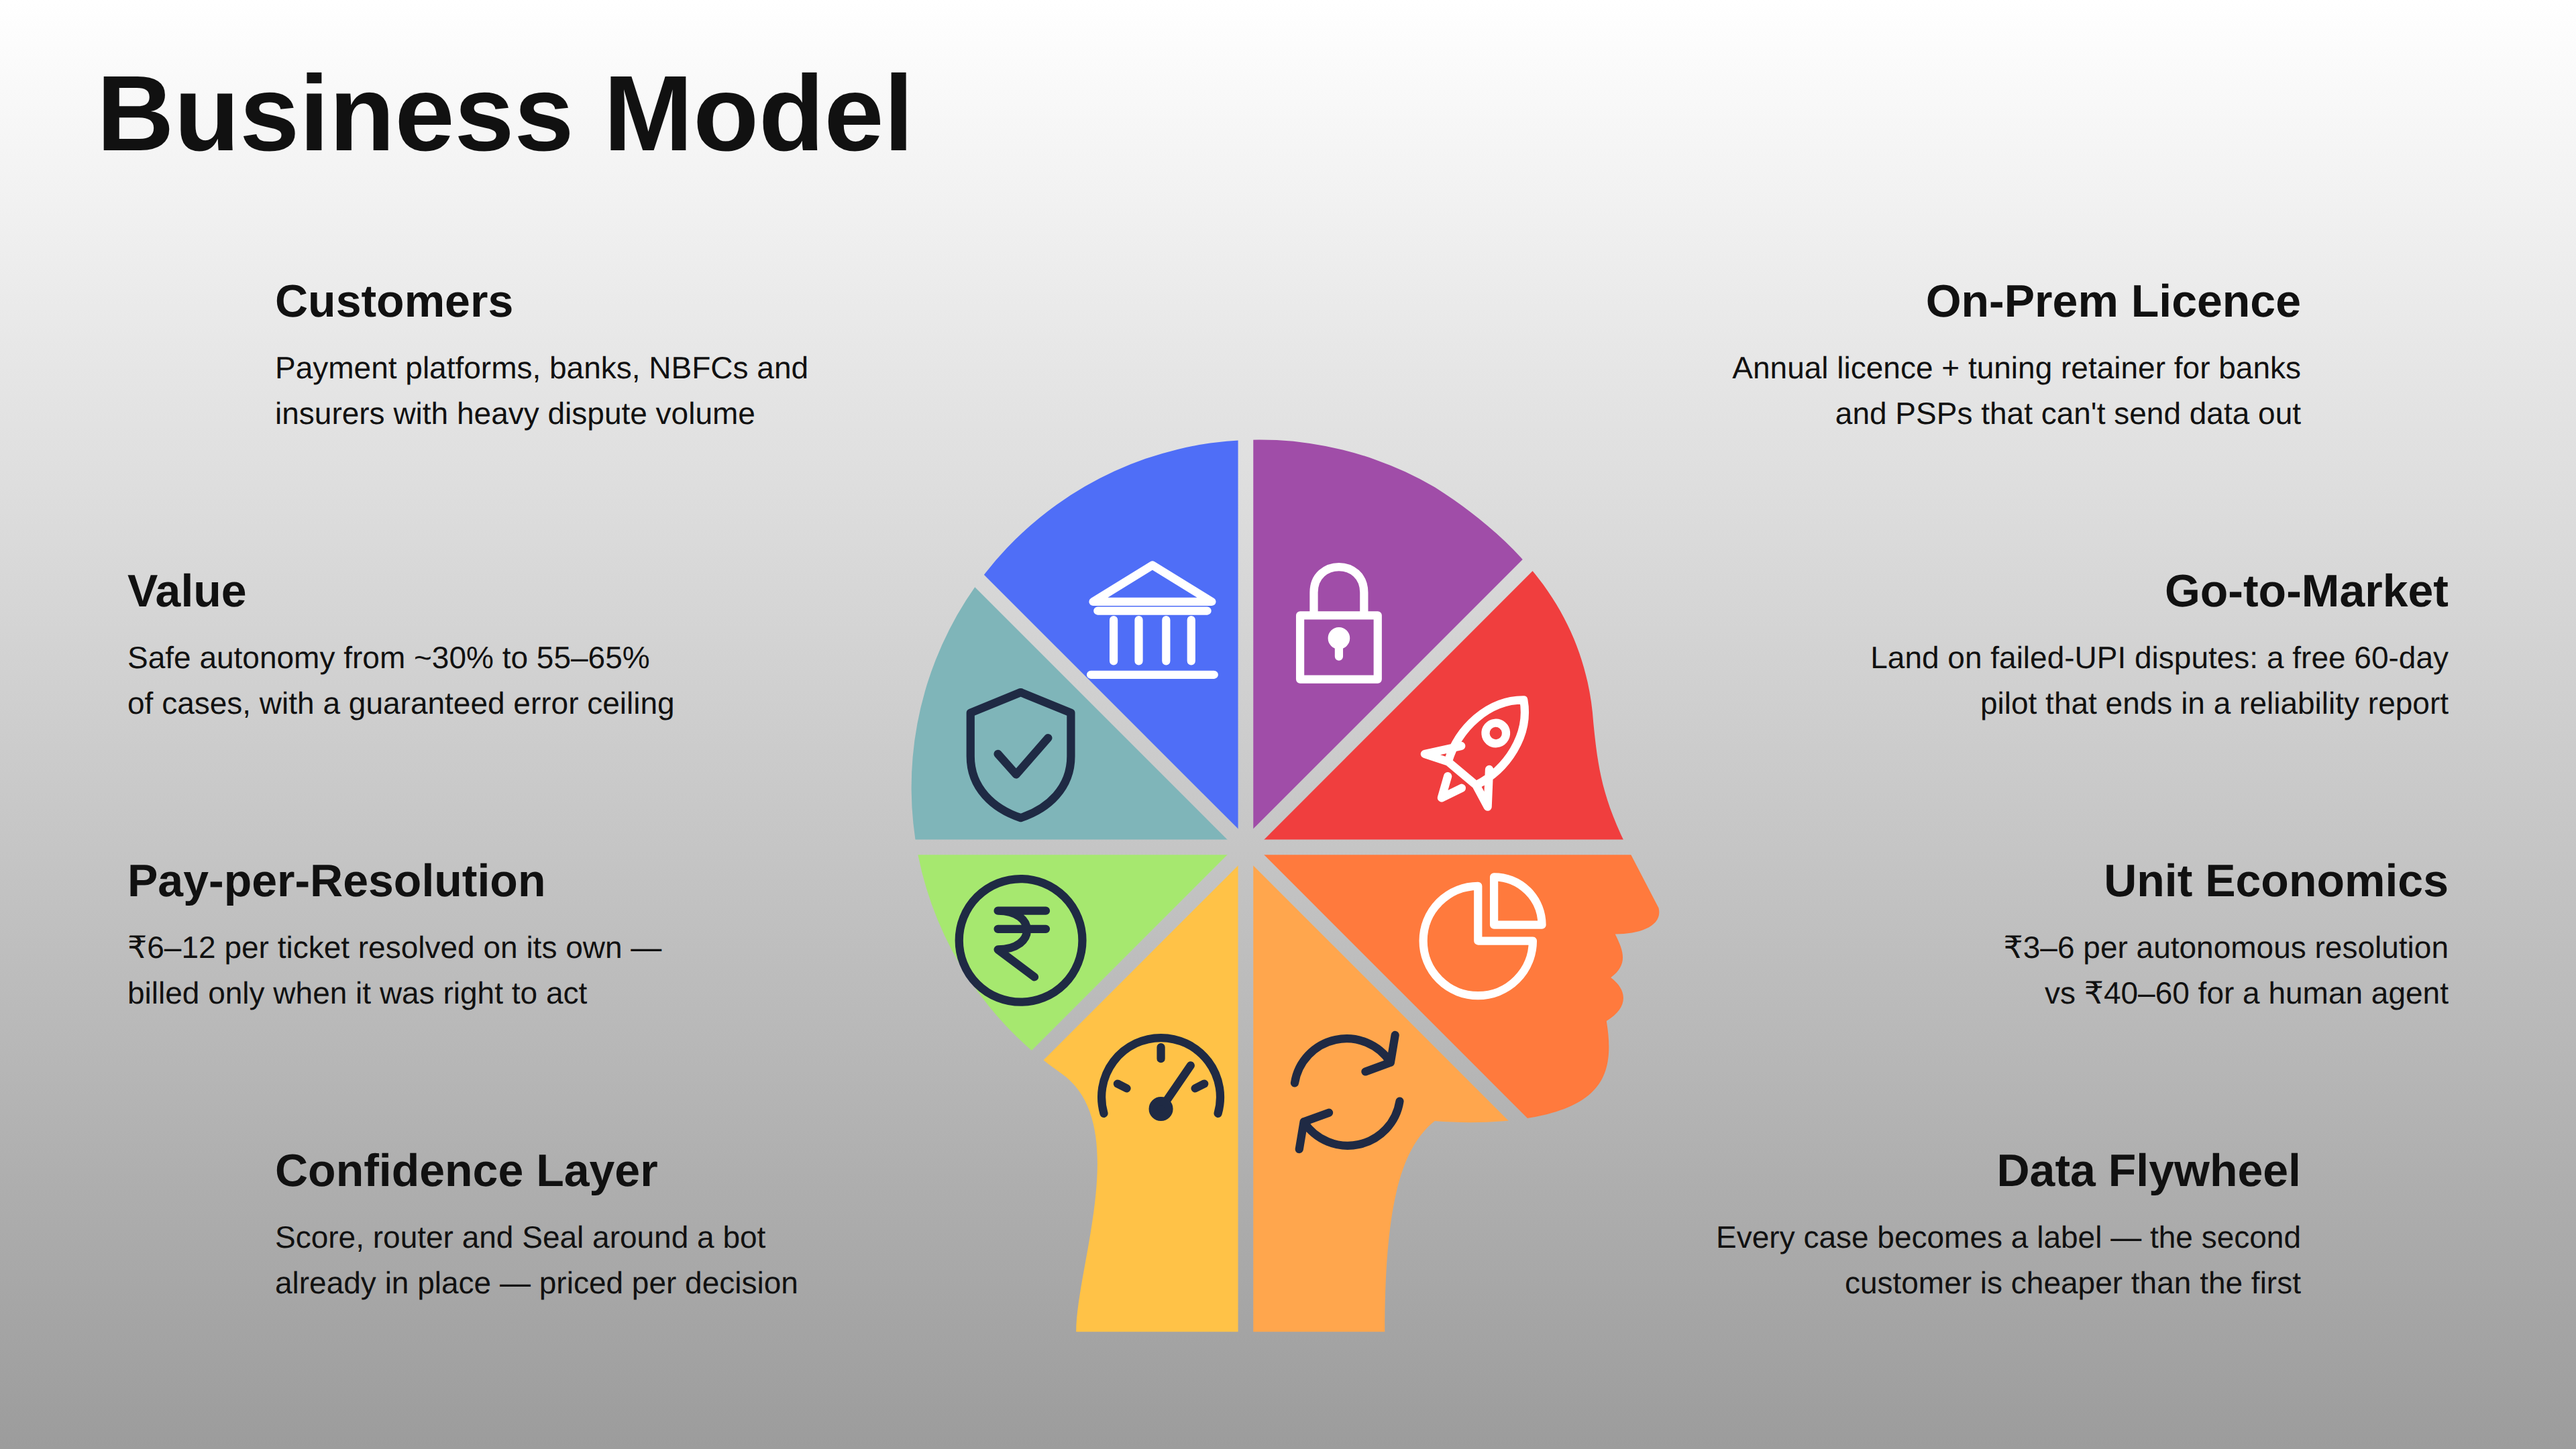
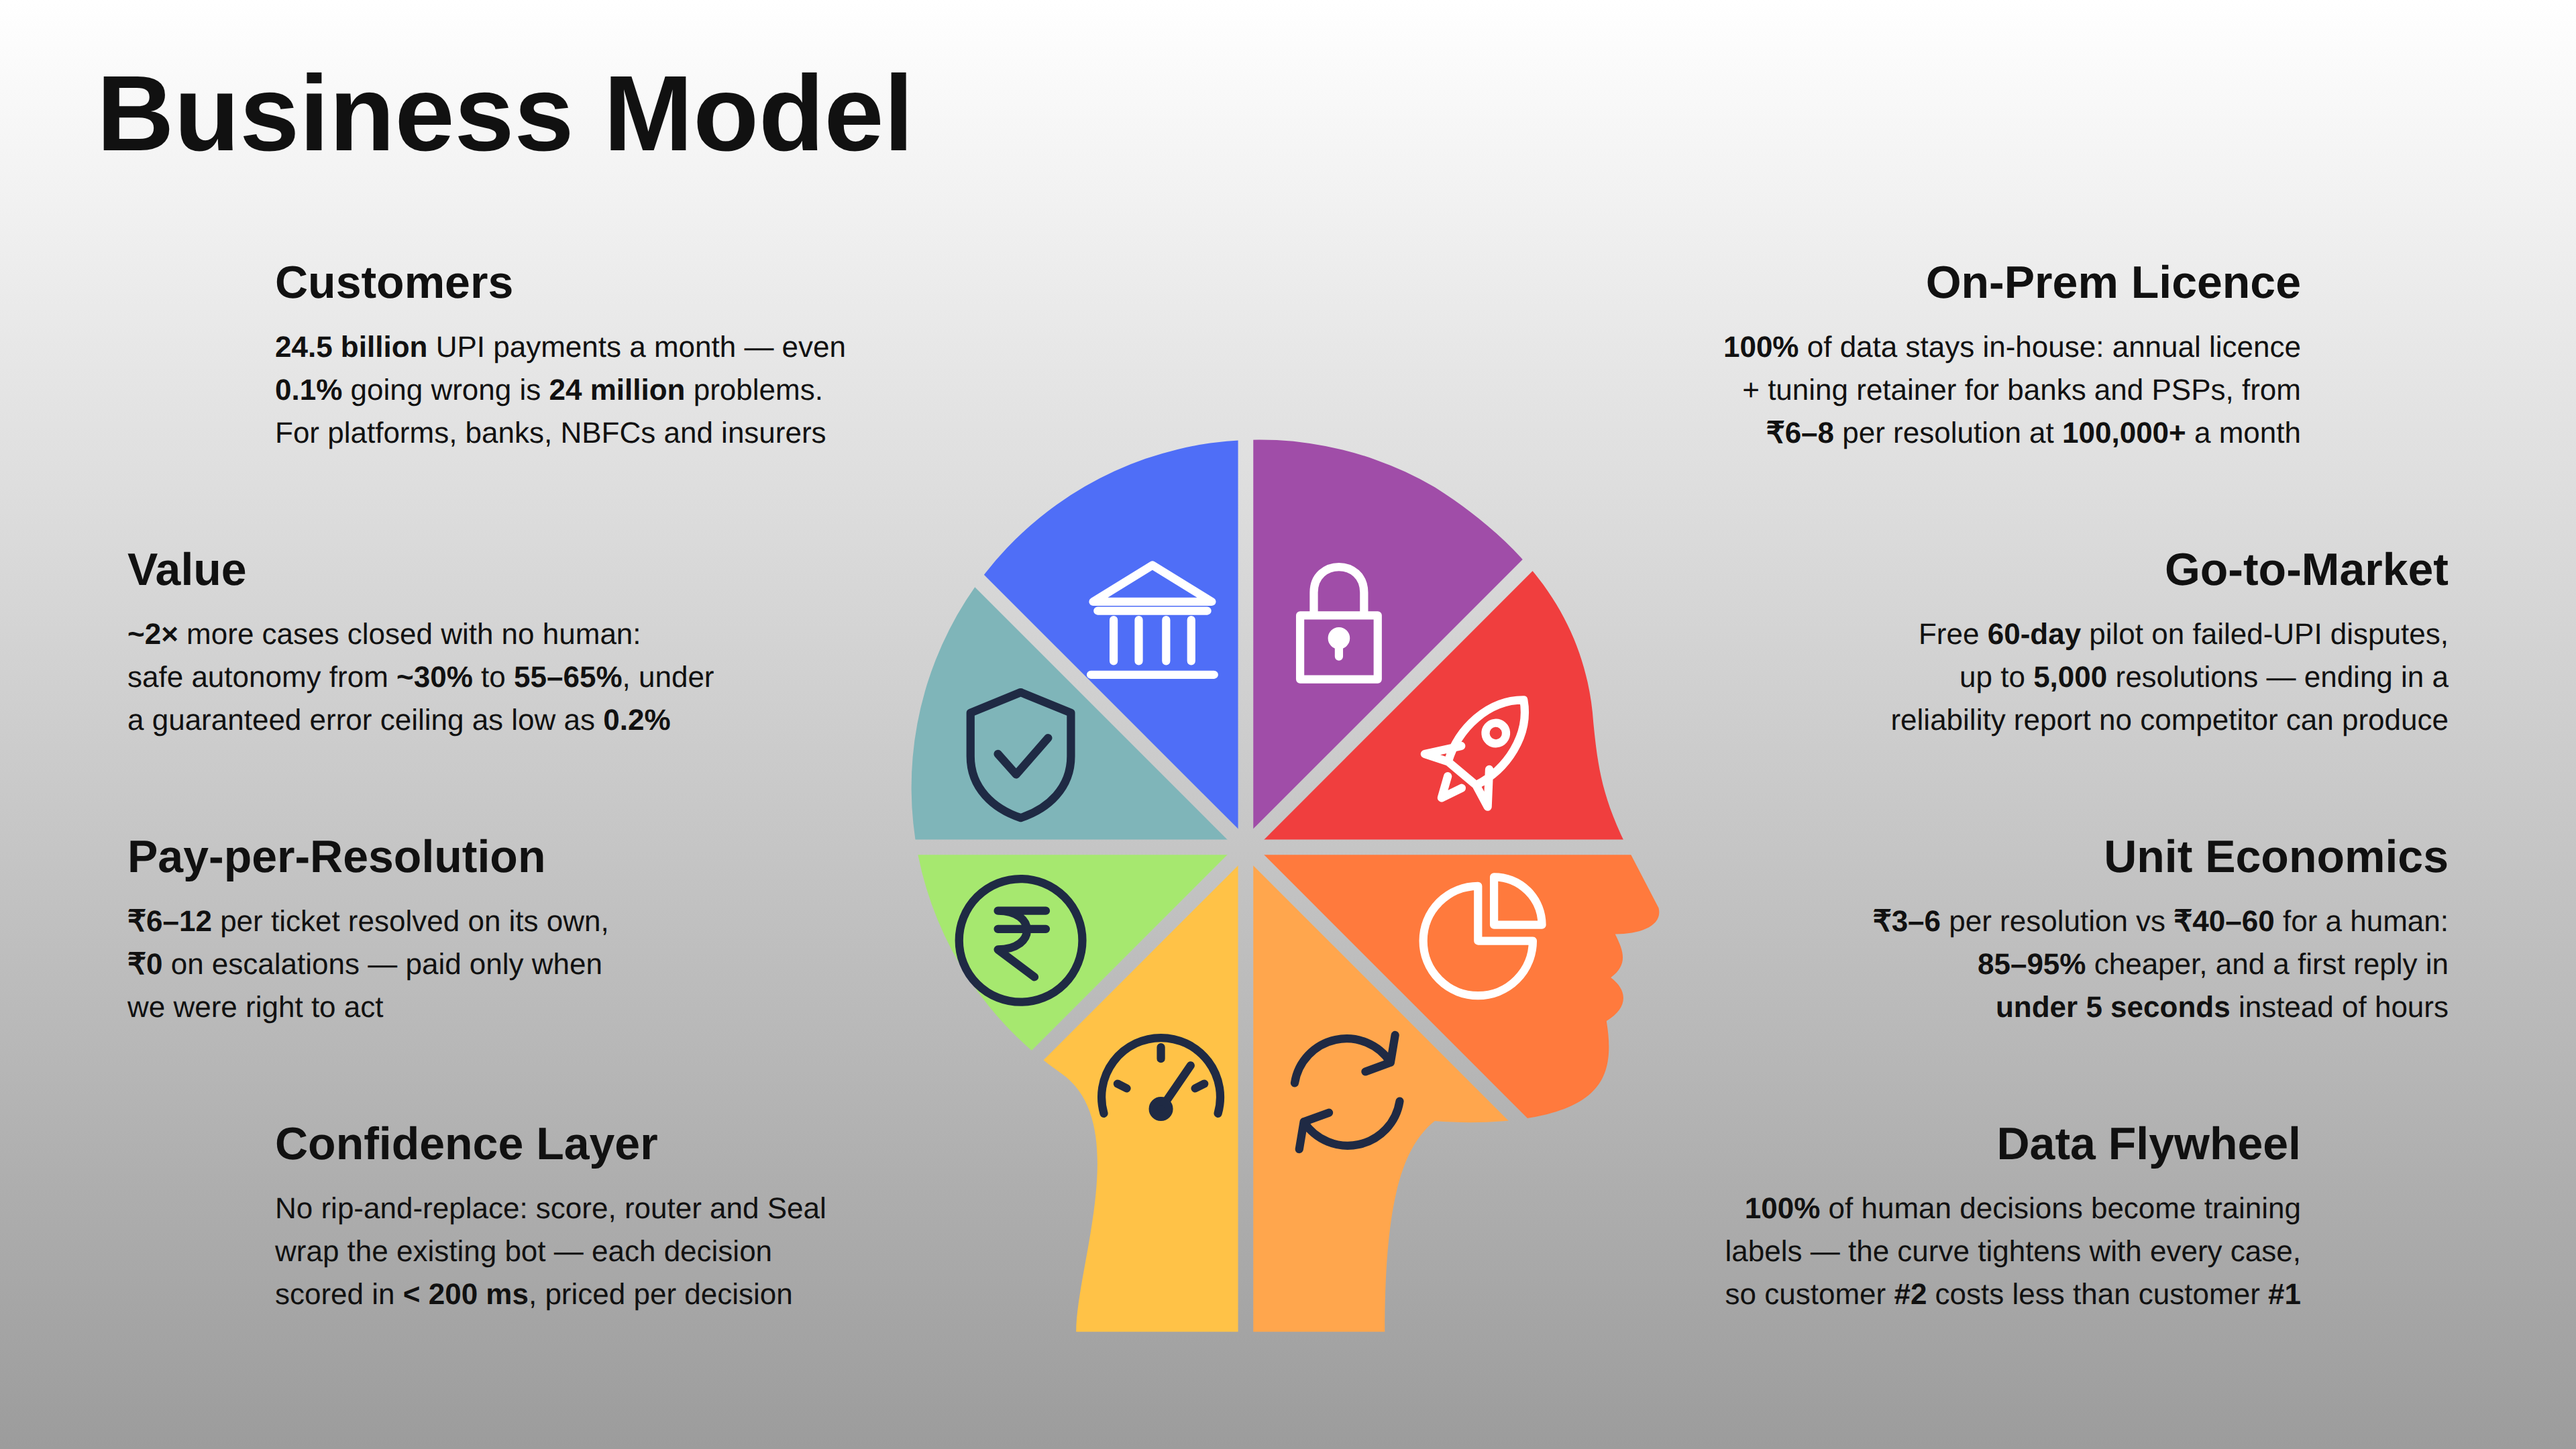
Lead each business-model point with a number
Each of the eight points is now three lines instead of two and opens on a
figure, set in bold on the slide:

- Customers: 24.5 billion UPI payments a month, the August 2026 record;
  0.1% of that is 24 million problems
- Value: ~2× (30% → 55–65%), with the error ceiling as low as 0.2%
- Pay-per-Resolution: ₹6–12 per resolution, ₹0 on escalations
- Confidence Layer: scored in under 200 ms, no rip-and-replace
- On-Prem Licence: 100% of data in-house, ₹6–8 at 100,000+ a month
- Go-to-Market: 60-day pilot, up to 5,000 resolutions
- Unit Economics: ₹3–6 vs ₹40–60, 85–95% cheaper, first reply in < 5 s
- Data Flywheel: 100% of human decisions become labels

Apart from the UPI volume, every figure is the deck's own model or
arithmetic on it. §6's table carries the same text, with a note saying
where the numbers come from.

Claude-Session: https://claude.ai/code/session_01Som1nYTWiZ84CtRvLKr1iX

diff --git a/ppt.md b/ppt.md
@@ -435,14 +435,16 @@ The loop back to P1 is deliberate: **a benchmark pass means the eval set was too
 
 | Around the head | Point |
 |---|---|
-| **Customers** | Payment platforms, banks, NBFCs and insurers with heavy dispute volume |
-| **Value** | Safe autonomy from ~30% to 55–65% of cases, with a guaranteed error ceiling |
-| **Pay-per-Resolution** | ₹6–12 per ticket resolved on its own — billed only when it was right to act |
-| **Confidence Layer** | Score, router and Seal around a bot already in place — priced per decision |
-| **On-Prem Licence** | Annual licence + tuning retainer for banks and PSPs that can't send data out |
-| **Go-to-Market** | Land on failed-UPI disputes: a free 60-day pilot that ends in a reliability report |
-| **Unit Economics** | ₹3–6 per autonomous resolution vs ₹40–60 for a human agent |
-| **Data Flywheel** | Every case becomes a label — the second customer is cheaper than the first |
+| **Customers** | **24.5 billion** UPI payments a month — even **0.1%** going wrong is **24 million** problems. For platforms, banks, NBFCs and insurers |
+| **Value** | **~2×** more cases closed with no human: safe autonomy from **~30%** to **55–65%**, under a guaranteed error ceiling as low as **0.2%** |
+| **Pay-per-Resolution** | **₹6–12** per ticket resolved on its own, **₹0** on escalations — paid only when we were right to act |
+| **Confidence Layer** | No rip-and-replace: score, router and Seal wrap the existing bot — each decision scored in **< 200 ms**, priced per decision |
+| **On-Prem Licence** | **100%** of data stays in-house: annual licence + tuning retainer for banks and PSPs, from **₹6–8** per resolution at **100,000+** a month |
+| **Go-to-Market** | Free **60-day** pilot on failed-UPI disputes, up to **5,000** resolutions — ending in a reliability report no competitor can produce |
+| **Unit Economics** | **₹3–6** per resolution vs **₹40–60** for a human: **85–95%** cheaper, and a first reply in **under 5 seconds** instead of hours |
+| **Data Flywheel** | **100%** of human decisions become training labels — the curve tightens with every case, so customer **#2** costs less than customer **#1** |
+
+<sub>UPI volume: record 24.51 billion transactions in August 2026. The error ceiling α is a per-action-type setting (0.2% for chargebacks in the illustrative table); the cost range is the deck's own model (§5.2).</sub>
 
 ## 6.1 · The wedge
 
